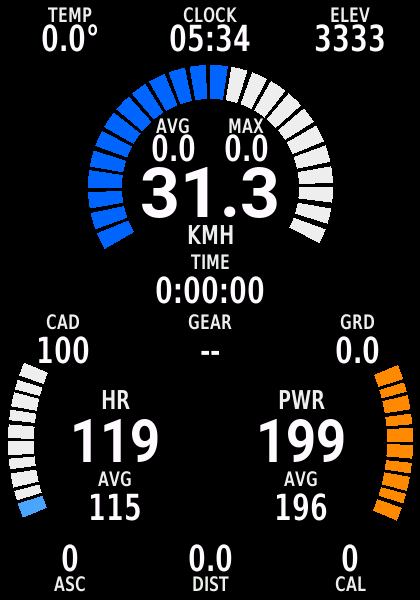
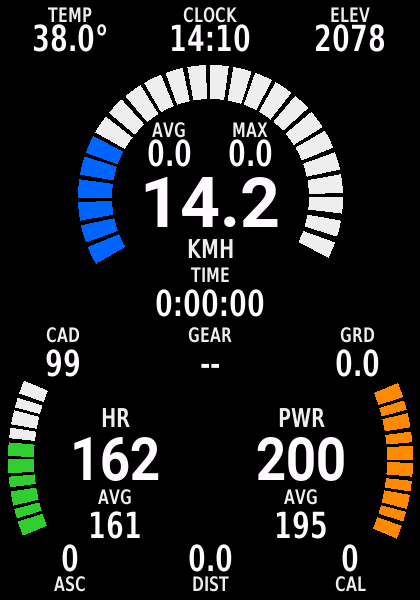
refactor(layout): clarify gauge offset key names
- Rename :gaugeCenterYOffset to :speedGaugeCenterYOffset
- Rename :panelCenterYOffset to :hrPwrGaugeCenterYOffset
- Document how each offset propagates through the layout
- Open the 850/550 gauge radius from 0.25 to 0.275
- Retune 850/550 elapsed time, cadence line and panel centre

diff --git a/CLAUDE.md b/CLAUDE.md
@@ -59,7 +59,7 @@ Selection uses both screen dimensions *and* a `deviceType` string:
 - **The 550 is the cautionary case.** 246×322 devices are caught by the `screenWidth < 260` net even on `deviceType` = `default`, so they tolerate a missing resource dir. A 420×600 device does not: without `resources-edge550/`, a 550 falls into `screenWidth >= 400`, takes the **1050** profile, and renders a layout that overflows by ~160 px — while still compiling and drawing, so it looks like it works. Any future 420×600 target needs its `deviceType` wired into the 850 branch.
 - Verifying which branch a device actually takes cannot be done statically: `Rez.mcgen` carries only resource ids, and every `.prg` embeds all the `deviceType` literals regardless of target because they are the `.equals()` operands in `initDeviceProfile`. Print the resolved profile from `initialize()` and run it under `monkeydo`. `:gaugeRadiusFactor` is the cheapest discriminator — 0.25 means the 850 branch, 0.33 the 1050/1040 branches, 0.40 either `:compact` branch. To tell the two `:compact` branches apart use `:rowValueFont` / `:crownValueFont` instead (`FONT_LARGE` = 840/540, `FONT_MEDIUM` = 830/530).
 
-Two profile keys carry the `:full` layout across aspect ratios: `:gaugeRadiusFactor` (speed gauge radius as a fraction of screen width) and `:rowValueFont` (the font for top bar, elapsed time, cadence row and footer values). Every 1.67-aspect device uses `0.33` / `FONT_LARGE`; the 850 at 1.43 needs `0.25` / `FONT_MEDIUM`. The layout is designed to *exactly* fill a 1.67-aspect screen — on the 1050 the shipped design already has ~4px of text-box overlap — so a shorter screen has no slack and needs both keys reduced, not just offsets nudged. Below roughly 1.4 this stops working at any font size and the device belongs on `:compact`, where `:gaugeRadiusFactor` becomes an upper bound the layout shrinks past if the band cannot take it.
+Two profile keys carry the `:full` layout across aspect ratios: `:gaugeRadiusFactor` (speed gauge radius as a fraction of screen width) and `:rowValueFont` (the font for top bar, elapsed time, cadence row and footer values). Every 1.67-aspect device uses `0.33` / `FONT_LARGE`; the 850 at 1.43 needs `FONT_MEDIUM` and a reduced radius — `0.25` is what the recovery was tuned at, `0.275` is what it ships at. Everything below the gauge keys off the radius, and the footer is anchored to the bottom, so the panel band is what pays for a larger gauge: on the 850 each 0.025 of factor moves the middle row down ~21 px and the panel top down ~16 px, taking that 16 px straight out of `:panelH`. The layout is designed to *exactly* fill a 1.67-aspect screen — on the 1050 the shipped design already has ~4px of text-box overlap — so a shorter screen has no slack and needs both keys reduced, not just offsets nudged. Below roughly 1.4 this stops working at any font size and the device belongs on `:compact`, where `:gaugeRadiusFactor` becomes an upper bound the layout shrinks past if the band cannot take it.
 
 To add a device: add the `<iq:product>` to `manifest.xml`, add `resources-<productId>/strings/strings.xml` with a `deviceType`, and add a profile branch — inserted at the right position in that chain.
 
